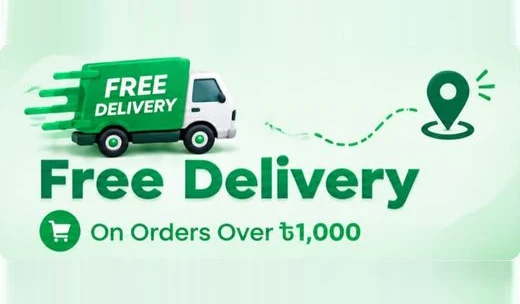
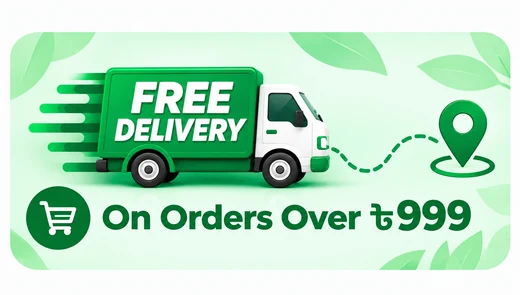
Set the promo cards to the owner's figure, and take their new free delivery art
The owner gave the number this time: 330 by 187 of their 720px screenshot,
about 1.76 to one. The row was drawing 1.71, so the cards come down from 95 to
92 css pixels tall. The margins and the gap are the ones the row already had,
which is what puts a card at 163 wide, and they line up with the departments
above.

The free delivery artwork is their new one, which says over 999 taka -- the
threshold the shop actually applies, where the picture before it said 1,000.
It arrives at 1666 by 944, within a pixel of the card's own ratio, and it is
used whole: resized to the width a 163px card wants on a 3x screen and not
cropped. It draws its own card and its own margin, so on a phone it sits on
white and needs no border; the wide cut on a laptop is pale to its edges, so
the border stays there.

`contain` replaces `cover` at the owner's instruction. With files cut to the
card's ratio neither has anything to do, but a file a hair off is now shown
short rather than shaved.

The Mega Deals card still has the earlier artwork: the new one has not reached
this machine yet.

diff --git a/src/components/home/PromoBanners.tsx b/src/components/home/PromoBanners.tsx
@@ -28,7 +28,7 @@ export default async function PromoBanners() {
         card="/promo-mega-deals-card.webp"
         wide="/promo-mega-deals.webp"
         alt="Mega Deals -- top picks, special deals"
-        shape="aspect-[327/191] tab:aspect-[1075/249]"
+        shape="aspect-[330/187] tab:aspect-[1075/249]"
         // Sampled from the artwork's own edge, so the card is the picture's
         // colour for the moment before the picture itself arrives.
         surface="bg-[#0b7d3f]"
@@ -39,12 +39,14 @@ export default async function PromoBanners() {
         card="/promo-free-delivery-card.webp"
         wide="/promo-free-delivery.webp"
         alt="Free delivery on orders over ৳1,000"
-        shape="aspect-[327/191] tab:aspect-[1563/275]"
-        surface="bg-[#e6f8ec]"
+        shape="aspect-[330/187] tab:aspect-[1563/275]"
+        // The card artwork is drawn with its own card and its own margin
+        // around it, so on a phone the surface behind it is the page's white
+        // and it needs no border. The wide cut on a laptop is pale to its
+        // edges and still does, so the border stays there.
+        surface="bg-white"
         pill="bg-brand text-white"
-        // This artwork's own background is very nearly white, so without an
-        // edge the card dissolves into the page it sits on.
-        frame="border border-brand-tint"
+        frame="tab:border tab:border-brand-tint"
       />
 
       {promos.map((promo) => (
@@ -56,10 +58,14 @@ export default async function PromoBanners() {
 
 /** One of the shop's two standing banners.
  *
- * The phone card's ratio is measured off the shop owner's own screen -- 327
- * by 191 of their 719px-wide screenshot, which is 163 by 95 css pixels beside
- * the margins and gap this row already had. That size is settled; what
- * changes here is only which of the owner's two files is drawn in it. */
+ * The phone card's ratio is the owner's own figure, 330 by 187 of their
+ * 720px-wide screenshot, which comes out at 163 by 92 css pixels beside the
+ * margins and gap this row already had. That size is settled; what changes
+ * here is only which of the owner's files is drawn in it.
+ *
+ * `contain` rather than `cover`, at the owner's instruction: their artwork is
+ * cut to this ratio already, so nothing is left over either way, but a file
+ * that is a hair off is then letterboxed rather than shaved. */
 function ArtworkBanner({
   card,
   wide,
@@ -89,16 +95,17 @@ function ArtworkBanner({
     >
       <picture>
         <source media="(min-width: 700px)" srcSet={wide} />
-        {/* Each file is already the ratio of the card it is drawn in, so
-            `cover` cannot crop anything; `<picture>` is what gives a phone
-            the card-shaped artwork and a laptop the wide one, and it fetches
-            only the one it will draw. */}
+        {/* `<picture>` gives a phone the card-shaped artwork and a laptop the
+            wide one, and fetches only the one it will draw. Each file is cut
+            to the ratio of the card it lands in, so `contain` has nothing to
+            letterbox -- and if a later file is a hair off, it is shown short
+            rather than shaved. */}
         <img
           src={card}
           alt={alt}
           loading="lazy"
           decoding="async"
-          className="absolute inset-0 h-full w-full object-cover"
+          className="absolute inset-0 h-full w-full object-contain"
         />
       </picture>
 
@@ -157,7 +164,7 @@ function PromoTile({ banner }: { banner: StoreBanner }) {
   );
 
   const shell =
-    "relative flex aspect-[327/191] flex-col justify-center overflow-hidden rounded-xl bg-[linear-gradient(135deg,#00553d_0%,#007553_100%)] px-3 tab:aspect-[1075/249] tab:rounded-2xl tab:px-8";
+    "relative flex aspect-[330/187] flex-col justify-center overflow-hidden rounded-xl bg-[linear-gradient(135deg,#00553d_0%,#007553_100%)] px-3 tab:aspect-[1075/249] tab:rounded-2xl tab:px-8";
 
   return banner.href ? (
     <Link href={banner.href} className={shell}>
